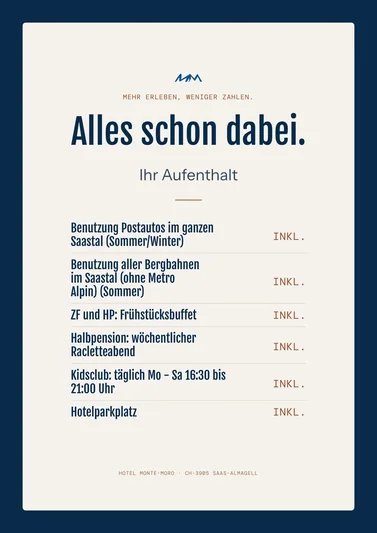
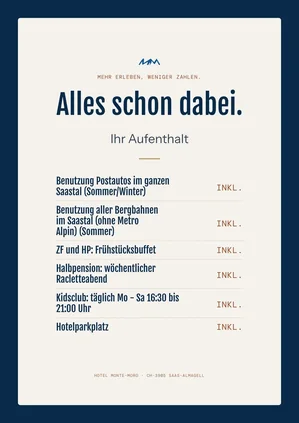
Werkbank: Drucksachen-Karte mit sieben Blättern (Prüfpunkt 32, 14.11.2026)

diff --git a/Zurbriggen Hotel Monte-Moro Saas-Almagell/website/_werkbank/werkbank/index.html b/Zurbriggen Hotel Monte-Moro Saas-Almagell/website/_werkbank/werkbank/index.html
@@ -14,7 +14,7 @@
 <link rel="preload" href="fonts/FjallaOne-400.woff2" as="font" type="font/woff2" crossorigin>
 <link rel="preload" href="img/auftakt.webp" as="image">
 <link rel="preload" href="img/auftakt-h.webp" as="image">
-<link rel="stylesheet" href="werkbank.css?v=1794221689">
+<link rel="stylesheet" href="werkbank.css?v=1794221689-ts">
 <link rel="stylesheet" href="kapitel.css?v=1794221726">
 <style id="sb-ruhe">.bf .bf-blatt[data-a="heben"],.bf .bf-blatt[data-a="heben"].da{animation:none!important}.kap__geist{animation:none!important}.kn:hover,.kn:active,.rund:hover,.rund:active,.wahl button:active,.vh-wahl button:active,.bn button:hover,.bn button:active,.glanz:active,.ins-r:hover,.ins-r:active,.wf__pf:hover,.wf__pf:active,.rgc-p:hover,.rgc-p:active,.sbf-z:hover{transform:none!important;translate:none!important;scale:none!important}.kn{overflow:hidden}.ins-reiter,.fb__reiter{padding-top:10px!important;padding-bottom:26px!important;margin-top:-10px!important;margin-bottom:-26px!important}.wahl,.vh-wahl{padding-top:8px!important;padding-bottom:26px!important;margin-top:-8px!important;margin-bottom:-12px!important}.wfen .wfen__t{font-size:clamp(24px,3.6vw,54px)!important;line-height:1.14!important}.wfen .wfen__k{font-size:clamp(15px,1.36vw,19px)!important}#papier img.frei{filter:none!important;box-shadow:none!important}</style><style id="zeile-ganz">h1,h2,h3,h4,.z>span{text-wrap:balance}h1 br+em,h2 br+em{display:inline-block;text-wrap:balance}.stapel .fen__k{position:relative}.stapel .fen__k span{position:absolute;left:50%;transform:translateX(-50%);margin:0;overflow:visible}@media(max-width:860px){.stapel .fen__k span{display:none}}@media(max-width:480px){.etk{grid-template-columns:minmax(0,1fr)!important}}@media(min-width:900px) and (max-width:1279px){.brett-p{grid-template-columns:300px minmax(0,1fr)}.brett-p__k{grid-column:1/-1}}@media(max-width:1279px){.brett-p p{text-wrap:balance}}.da:not([data-drift]){will-change:auto!important}.mb-ueber__t small{display:grid;grid-template-columns:64px minmax(0,1fr);align-items:baseline}.mb-ueber__t small span{min-width:0}@media(max-width:480px){.mn-titel{font-size:clamp(1.5rem,8vw,2.2rem);letter-spacing:.03em}.mn-ende{gap:10px}.mn-ende i{width:18px}.mn-ende span{letter-spacing:.12em;white-space:nowrap}a.kn[href="../../index.html#geprueft"]{letter-spacing:.04em;font-size:13px;white-space:nowrap;padding-left:14px}.stapel .tel{width:21%;right:-2%}}@media(max-width:480px){.wege__t,figcaption,.mb-ueber__t small{text-wrap:balance}.sag-h{font-size:1.32rem;letter-spacing:.03em;gap:10px}.hs2-her{grid-template-columns:repeat(2,minmax(0,1fr))!important}.hs2-her figcaption small{font-size:13px;letter-spacing:0}.ki-knoepfe{flex-direction:column;align-items:stretch}.ki-knoepfe .kn{white-space:nowrap;letter-spacing:.04em;font-size:13px}#sag-aufbau[data-a="heben"]:not(.da){transform:translateY(56px) scale(.98)!important}.faecher--2 .blattk span{flex-direction:column;gap:3px;font-size:13px;letter-spacing:.08em}}.stage>.aside h1{font-size:clamp(2rem,3.6vw,3.3rem);white-space:nowrap}.stage>.aside h1 em{display:inline}</style><style id="mm-leiste">.insel__m svg{height:18px!important;width:auto!important;aspect-ratio:3483/696;color:#c67144!important;fill:currentColor}.insel__m span{color:#c67144}@media(max-width:600px){.insel__m span,.insel__m b{display:none!important}.insel{gap:10px!important}.insel .glanz{white-space:nowrap}}</style></head>
 <body class="haus-montemoro">
@@ -403,7 +403,7 @@ else{ebene.removeAttribute('role');ebene.removeAttribute('tabindex');ebene.remov
 <section class="fl fl--tief tapete blatt" id="papier"><span class="k-anker" id="k6"></span>
   <div class="in">
     <div class="kopfzeile"><div><p class="kap kap--z kap--k" data-a="auf"><span class="kap__geist" aria-hidden="true">VI</span><small class="kap__nr">Kapitel VI</small><svg class="kap__z" viewBox="0 0 3483 696" fill="currentColor" aria-hidden="true"><use href="#hz"/></svg><span>Für draussen</span></p><h2 class="t2 zt"><span class="z"><span>Für Tisch</span></span><span class="z"><span><em>und Zimmer.</em></span></span></h2></div><div class="lauf"><p data-a="worte">Für das Monte-Moro ist einiges entstanden: Drucksachen von der Karte im Röstihüs bis zum Willkommensbrief im Zimmer, Untersetzer fürs Röstihüs, Mails an Ihre Gäste, Postkarten und Sticker.</p></div></div>
[1 lines of base64/hex data omitted]
+    <div class="papier"><div class="pk" data-a="kipp"><div class="pk__b"><div class="kleb" data-a="schweb" style="left:3%;top:6%;width:28%;--r:-3deg;--r0:-9deg;--i:0"><img src="img/k-u01.webp" width="340" height="340" alt="" loading="lazy" decoding="async" class="ld frei"></div><div class="kleb" data-a="schweb" style="left:36%;top:6%;width:28%;--r:2deg;--r0:6deg;--i:1"><img src="img/k-u02.webp" width="340" height="340" alt="" loading="lazy" decoding="async" class="ld frei"></div><div class="kleb" data-a="schweb" style="left:69%;top:6%;width:28%;--r:-2deg;--r0:-6deg;--i:2"><img src="img/k-u03.webp" width="340" height="340" alt="" loading="lazy" decoding="async" class="ld frei"></div><div class="kleb" data-a="schweb" style="left:3%;top:54%;width:28%;--r:2deg;--r0:6deg;--i:3"><img src="img/k-u04.webp" width="340" height="340" alt="" loading="lazy" decoding="async" class="ld frei"></div><div class="kleb" data-a="schweb" style="left:36%;top:54%;width:28%;--r:-3deg;--r0:-9deg;--i:4"><img src="img/k-u05.webp" width="340" height="340" alt="" loading="lazy" decoding="async" class="ld frei"></div><div class="kleb" data-a="schweb" style="left:69%;top:54%;width:28%;--r:3deg;--r0:9deg;--i:5"><img src="img/k-u06.webp" width="340" height="340" alt="" loading="lazy" decoding="async" class="ld frei"></div></div><h3>12 Untersetzer</h3><p>Zum Bier im Röstihüs gehört ein Untersetzer: zwölf Ideen mit dem Bergkamm, der Lärche der Balkone und den Sätzen des Hauses.</p><a class="kn " href="../untersetzer/index.html" target="_blank" rel="noopener">Untersetzer ansehen<i><svg viewBox="0 0 16 16" aria-hidden="true"><path d="M4 12 12 4M5.5 4H12v6.5"/></svg></i></a></div><div class="pk pk--hell" data-a="kipp" style="--i:1"><div class="pk__b"><div class="bogenb" data-a="schweb" style="left:2%;top:3%;width:24%;--r:-3deg;--r0:-9deg;--i:0"><img src="img/b-pw-roestihues-best-of-roestis.webp" width="312" height="441" alt="" loading="lazy" decoding="async" class="ld"></div><div class="bogenb" data-a="schweb" style="left:28%;top:2%;width:42%;--r:3deg;--r0:9deg;--i:1"><img src="img/b-pw-gutschein-roestihues.webp" width="546" height="258" alt="" loading="lazy" decoding="async" class="ld"></div><div class="bogenb" data-a="schweb" style="left:74%;top:4%;width:23%;--r:-4deg;--r0:-12deg;--i:2"><img src="img/b-pw-aushang-inklusive.webp" width="299" height="423" alt="" loading="lazy" decoding="async" class="ld"></div><div class="bogenb" data-a="schweb" style="left:30%;top:30%;width:34%;--r:3deg;--r0:9deg;--i:3"><img src="img/b-pw-tischkarte-hotelwein.webp" width="442" height="312" alt="" loading="lazy" decoding="async" class="ld"></div><div class="bogenb" data-a="schweb" style="left:4%;top:48%;width:22%;--r:5deg;--r0:15deg;--i:4"><img src="img/b-pw-willkommensbrief.webp" width="286" height="404" alt="" loading="lazy" decoding="async" class="ld"></div><div class="bogenb" data-a="schweb" style="left:30%;top:58%;width:36%;--r:-5deg;--r0:-15deg;--i:5"><img src="img/b-pw-ansichtskarte-sommer.webp" width="468" height="332" alt="" loading="lazy" decoding="async" class="ld"></div><div class="bogenb" data-a="schweb" style="left:72%;top:46%;width:24%;--r:3deg;--r0:9deg;--i:6"><img src="img/b-pw-preisliste-zimmer.webp" width="312" height="441" alt="" loading="lazy" decoding="async" class="ld"></div></div><h3>34 Drucksachen</h3><p>Von der Karte im Röstihüs bis zum Willkommensbrief im Zimmer, dazu <a href="../sticker/index.html" target="_blank" rel="noopener">Sticker</a>, <a href="../postkarten/index.html" target="_blank" rel="noopener">Postkarten</a> und <a href="../beigaben/index.html" target="_blank" rel="noopener">Beigaben</a>.</p><a class="kn " href="../drucksachen/index.html" target="_blank" rel="noopener">Drucksachen ansehen<i><svg viewBox="0 0 16 16" aria-hidden="true"><path d="M4 12 12 4M5.5 4H12v6.5"/></svg></i></a></div><div class="pk pk--mail" data-a="kipp" style="--i:2"><div class="pk__b"><a class="bogenb mlp" href="../mails/01-anfrage/index.html" target="_blank" rel="noopener" data-a="schweb" style="left:7%;top:1%;width:22%;--r:-2deg;--r0:-6deg;--i:0"><img src="img/ml-01.webp" width="1100" height="1616" alt="Mail: Ihre Anfrage ist da" loading="lazy" decoding="async" class="ld"></a><a class="bogenb mlp" href="../mails/02-angebot/index.html" target="_blank" rel="noopener" data-a="schweb" style="left:39%;top:1%;width:22%;--r:2deg;--r0:6deg;--i:1"><img src="img/ml-02.webp" width="1100" height="1616" alt="Mail: Ihr Angebot" loading="lazy" decoding="async" class="ld"></a><a class="bogenb mlp" href="../mails/03-bestaetigung/index.html" target="_blank" rel="noopener" data-a="schweb" style="left:71%;top:1%;width:22%;--r:-2deg;--r0:-6deg;--i:2"><img src="img/ml-03.webp" width="1100" height="1616" alt="Mail: Ihre Buchung ist bestätigt" loading="lazy" decoding="async" class="ld"></a><a class="bogenb mlp" href="../mails/04-anreise/index.html" target="_blank" rel="noopener" data-a="schweb" style="left:7%;top:52%;width:22%;--r:2deg;--r0:6deg;--i:3"><img src="img/ml-04.webp" width="1100" height="1616" alt="Mail: Vor Ihrer Anreise" loading="lazy" decoding="async" class="ld"></a><a class="bogenb mlp" href="../mails/05-danke/index.html" target="_blank" rel="noopener" data-a="schweb" style="left:39%;top:52%;width:22%;--r:-2deg;--r0:-6deg;--i:4"><img src="img/ml-05.webp" width="1100" height="1616" alt="Mail: Danke für Ihren Besuch" loading="lazy" decoding="async" class="ld"></a><a class="bogenb mlp" href="../mails/06-tisch/index.html" target="_blank" rel="noopener" data-a="schweb" style="left:71%;top:52%;width:22%;--r:2deg;--r0:6deg;--i:5"><img src="img/ml-06.webp" width="1100" height="1616" alt="Mail: Ihr Tisch im Röstihüs" loading="lazy" decoding="async" class="ld"></a></div><h3>Sechs Mails</h3><p>Was ein Gast nach seiner Anfrage, mit der Bestätigung, vor der Anreise und nach dem Aufenthalt im Postfach findet. Namen und Daten darin sind ausgedacht.</p><a class="kn " href="../mails/index.html" target="_blank" rel="noopener">Mails ansehen<i><svg viewBox="0 0 16 16" aria-hidden="true"><path d="M4 12 12 4M5.5 4H12v6.5"/></svg></i></a></div><div class="pk pk--post" data-a="kipp" style="--i:3"><div class="pk__b"><img src="../postkarten/img/staender.webp" width="1400" height="900" alt="Die Postkarten im Kartenständer" loading="lazy" decoding="async"></div><h3>12 Postkarten</h3><p>Das Haus und das Saastal als Postkarte für den Ständer an der Rezeption, mit Beschnitt für die Druckerei und als Sammelbogen SRA3.</p><a class="kn " href="../postkarten/index.html" target="_blank" rel="noopener">Postkarten ansehen<i><svg viewBox="0 0 16 16" aria-hidden="true"><path d="M4 12 12 4M5.5 4H12v6.5"/></svg></i></a></div></div>
   </div>
 </section>
 

diff --git a/Zurbriggen Hotel Monte-Moro Saas-Almagell/website/_werkbank/werkbank/ki.html b/Zurbriggen Hotel Monte-Moro Saas-Almagell/website/_werkbank/werkbank/ki.html
@@ -14,7 +14,7 @@
 <link rel="preload" href="fonts/FjallaOne-400.woff2" as="font" type="font/woff2" crossorigin>
 <link rel="preload" href="img/auftakt.webp" as="image">
 <link rel="preload" href="img/auftakt-h.webp" as="image">
-<link rel="stylesheet" href="werkbank.css?v=1794221689">
+<link rel="stylesheet" href="werkbank.css?v=1794221689-ts">
 <link rel="stylesheet" href="kapitel.css?v=1794221726">
 <style id="sb-ruhe">.bf .bf-blatt[data-a="heben"],.bf .bf-blatt[data-a="heben"].da{animation:none!important}.kap__geist{animation:none!important}.kn:hover,.kn:active,.rund:hover,.rund:active,.wahl button:active,.vh-wahl button:active,.bn button:hover,.bn button:active,.glanz:active,.ins-r:hover,.ins-r:active,.wf__pf:hover,.wf__pf:active,.rgc-p:hover,.rgc-p:active,.sbf-z:hover{transform:none!important;translate:none!important;scale:none!important}.kn{overflow:hidden}.ins-reiter,.fb__reiter{padding-top:10px!important;padding-bottom:26px!important;margin-top:-10px!important;margin-bottom:-26px!important}.wahl,.vh-wahl{padding-top:8px!important;padding-bottom:26px!important;margin-top:-8px!important;margin-bottom:-12px!important}.wfen .wfen__t{font-size:clamp(24px,3.6vw,54px)!important;line-height:1.14!important}.wfen .wfen__k{font-size:clamp(15px,1.36vw,19px)!important}#papier img.frei{filter:none!important;box-shadow:none!important}</style><style id="ki-stil">
 /* «KI und Ihre Daten» (ki_seite.py, 16.10.2026, zweite Fassung): Bausteine der Werkbank (ag-blatt, mn-preise, zt, odo, wfen, data-a),

diff --git a/Zurbriggen Hotel Monte-Moro Saas-Almagell/website/_werkbank/werkbank/werkbank.css b/Zurbriggen Hotel Monte-Moro Saas-Almagell/website/_werkbank/werkbank/werkbank.css
@@ -1425,3 +1425,12 @@ html.cv-alle main>section.fl:not(#brief){content-visibility:visible}
 
 /* Tapete im Rhythmus, je Haus ausgezählt (Nachzug 14.11.2026, Robert 14.11.2026: «so alle 3 Abschnitte»): Auftakt, die genannten Abschnitte, Fuss */
 main>.fl:not(:nth-child(5),:nth-child(10),:nth-child(13),:nth-child(17),:nth-child(20),:nth-child(23)),main>.fl:not(:nth-child(5),:nth-child(10),:nth-child(13),:nth-child(17),:nth-child(20),:nth-child(23)) .ag-blatt,main>.fl:not(:nth-child(5),:nth-child(10),:nth-child(13),:nth-child(17),:nth-child(20),:nth-child(23)) .lu{background-image:none!important}
+/* titel-sofort-2026-11-14 */
+/* Hero-Titel sofort (Robert 14.11.2026): Zeilen liegen vor ihrem Auftritt ganz verdeckt, nichts lugt in der Hausfarbe hervor;
+   der Titel im Auftakt läuft beim ersten Bild los, ohne auf das Skript zu warten. */
+.z>span{transform:translateY(140%)}
+.da .z>span,.z.da>span{transform:none}
+.auftakt .zt .z>span{animation:zt-sofort 1.3s var(--e1) both;animation-delay:calc(var(--n,0)*120ms)}
+@keyframes zt-sofort{from{transform:translateY(140%)}to{transform:none}}
+@media(prefers-reduced-motion:reduce){.auftakt .zt .z>span{animation:none;transform:none}}
+@media print{.auftakt .zt .z>span{animation:none;transform:none}}

diff --git a/Zurbriggen Hotel Monte-Moro Saas-Almagell/website/_werkbank/werkbank/karte.html b/Zurbriggen Hotel Monte-Moro Saas-Almagell/website/_werkbank/werkbank/karte.html
@@ -6,7 +6,7 @@
 <title>Ein Vorschlag · Hotel Monte-Moro</title>
 <meta name="robots" content="noindex, nofollow">
 <link rel="preload" href="fonts/FjallaOne-400.woff2" as="font" type="font/woff2" crossorigin>
-<link rel="stylesheet" href="werkbank.css?v=1794221689"><link rel="stylesheet" href="kapitel.css?v=1794221726">
+<link rel="stylesheet" href="werkbank.css?v=1794221689-ts"><link rel="stylesheet" href="kapitel.css?v=1794221726">
 <style>
 html,body{margin:0;background:var(--nacht,#0a2a4a)}
 body{min-height:100vh;display:flex;justify-content:center;align-items:flex-start;padding:clamp(20px,4vw,64px) 16px}
